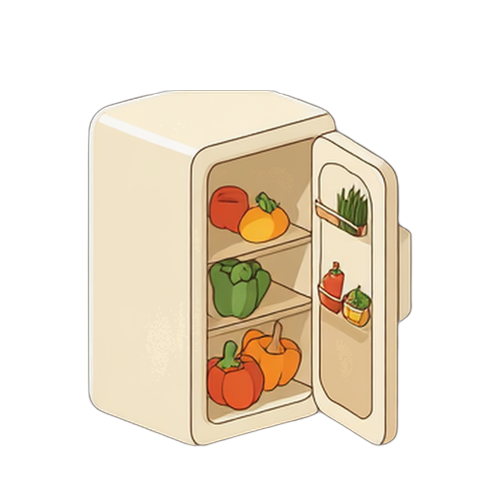
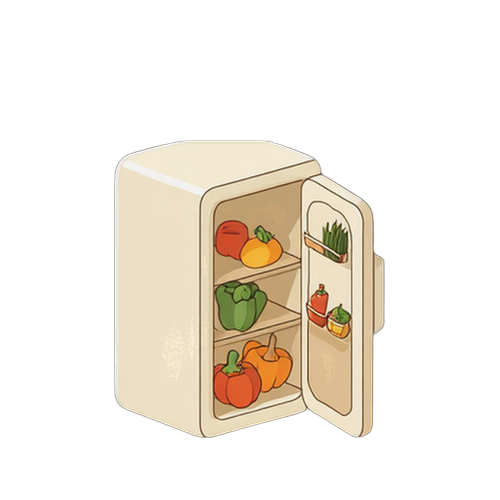
fix: 테마카드 칩 스타일로 변경, 배경 연하게, 냉장고 잘림 수정
- 테마 카드: 카드 → 칩 스타일 (pill shape, 56px 높이)
- 배경색: 진한색 → 연한 파스텔 (텍스트 어두운색으로 변경)
- 에셋: 칩 오른쪽에 52px로 띄움
- 보더 + 가벼운 쉐도우로 떠있는 느낌
- 냉장고 이미지: 더 축소 + y+40으로 위 잘림 방지

Changed region(s): [[0.15, 0.18, 0.84, 0.9]]

diff --git a/src/pages/home/components/recipe-section.tsx b/src/pages/home/components/recipe-section.tsx
@@ -20,15 +20,19 @@ export function ThemeCardsSection({ cards, onPress }: ThemeCardsSectionProps) {
           key={card.id}
           onPress={() => onPress(card)}
           style={{
-            width: 150,
-            height: 110,
+            width: 140,
+            height: 56,
             backgroundColor: card.backgroundColor,
-            borderRadius: radius.xl,
-            padding: spacing.md,
-            justifyContent: 'flex-end',
+            borderRadius: radius.full,
+            paddingLeft: spacing.lg,
+            paddingRight: card.image ? 48 : spacing.lg,
+            flexDirection: 'row',
+            alignItems: 'center',
             borderCurve: 'continuous',
             overflow: 'hidden',
-            boxShadow: '0 4px 12px rgba(0, 0, 0, 0.15)',
+            borderWidth: 1,
+            borderColor: colors.border,
+            boxShadow: '0 2px 6px rgba(0, 0, 0, 0.08)',
           }}
         >
           {card.image && (
@@ -36,19 +40,23 @@ export function ThemeCardsSection({ cards, onPress }: ThemeCardsSectionProps) {
               source={card.image}
               style={{
                 position: 'absolute',
-                top: -12,
-                right: -12,
-                bottom: -12,
-                width: '80%',
+                right: -4,
+                width: 52,
+                height: 52,
               }}
               contentFit="contain"
             />
           )}
-          <Text style={{ fontFamily: typography.heading.fontFamily, fontSize: 15, fontWeight: '700', color: colors.text.inverse }}>
+          <Text
+            style={{
+              fontFamily: typography.heading.fontFamily,
+              fontSize: 14,
+              fontWeight: '700',
+              color: colors.text.primary,
+            }}
+            numberOfLines={1}
+          >
             {card.title}
-          </Text>
-          <Text style={{ fontFamily: typography.body.fontFamily, fontSize: 11, color: 'rgba(255,255,255,0.85)' }}>
-            {card.subtitle}
           </Text>
         </Pressable>
       ))}

diff --git a/src/shared/data/mock.ts b/src/shared/data/mock.ts
@@ -24,11 +24,11 @@ export interface Category {
 }
 
 export const MOCK_THEME_CARDS: ThemeCard[] = [
-  { id: '1', title: '두바이 초콜릿', subtitle: '달콤한 피스타치오', backgroundColor: '#5C4033', image: require('@/assets/images/theme-dubai-chocolate.png') },
-  { id: '2', title: '버터떡', subtitle: '바삭한 한입 간식', backgroundColor: '#9E8A5A', image: require('@/assets/images/theme-butter-tteok.png') },
-  { id: '3', title: '봄동 비빔밥', subtitle: '제철 봄나물 요리', backgroundColor: '#4A6E5C', image: require('@/assets/images/theme-bomdong.png') },
-  { id: '4', title: '야식 모음', subtitle: '밤에 땡기는 요리', backgroundColor: '#3D4655' },
-  { id: '5', title: '가족 요리', subtitle: '함께 만드는 레시피', backgroundColor: '#8E5B5B' },
+  { id: '1', title: '두바이 초콜릿', subtitle: '달콤한 피스타치오', backgroundColor: '#F5EDE4', image: require('@/assets/images/theme-dubai-chocolate.png') },
+  { id: '2', title: '버터떡', subtitle: '바삭한 한입 간식', backgroundColor: '#FFF3E0', image: require('@/assets/images/theme-butter-tteok.png') },
+  { id: '3', title: '봄동 비빔밥', subtitle: '제철 봄나물 요리', backgroundColor: '#E8F5E9', image: require('@/assets/images/theme-bomdong.png') },
+  { id: '4', title: '야식 모음', subtitle: '밤에 땡기는 요리', backgroundColor: '#E8EAF0' },
+  { id: '5', title: '가족 요리', subtitle: '함께 만드는 레시피', backgroundColor: '#FCE4EC' },
 ];
 
 export const MOCK_HOT_RECIPES: RecipeCard[] = [
